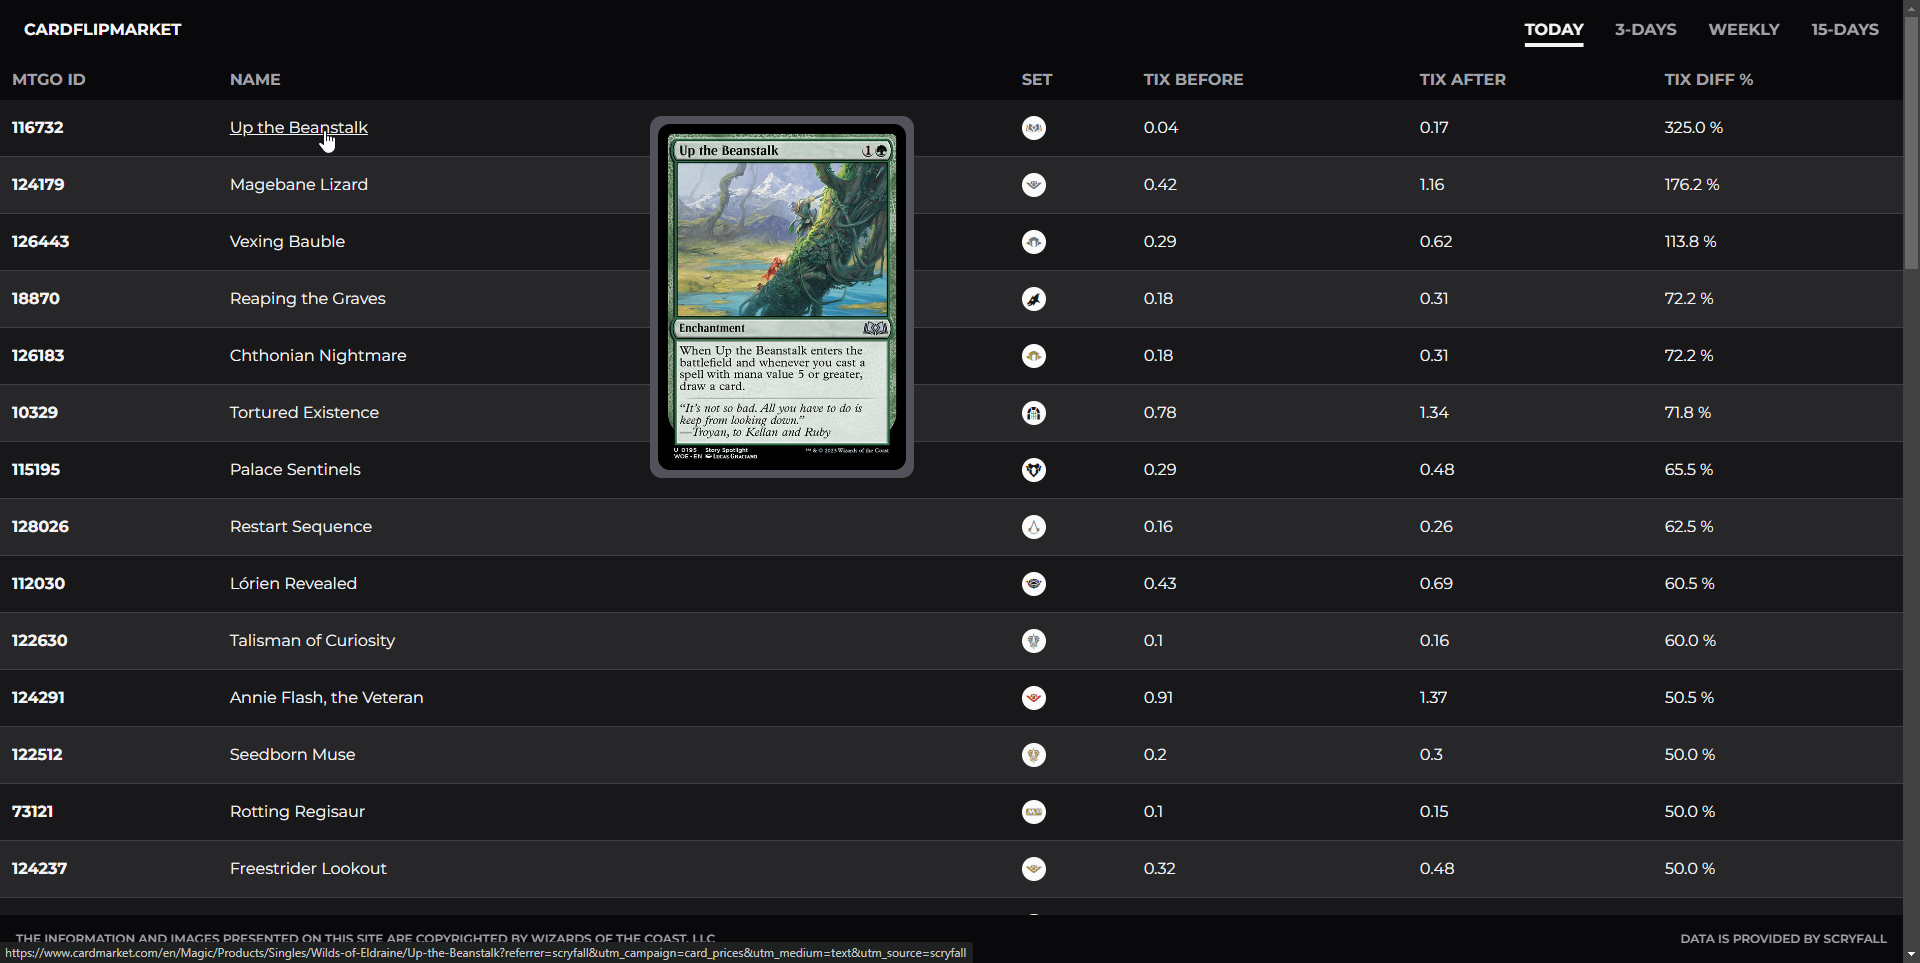
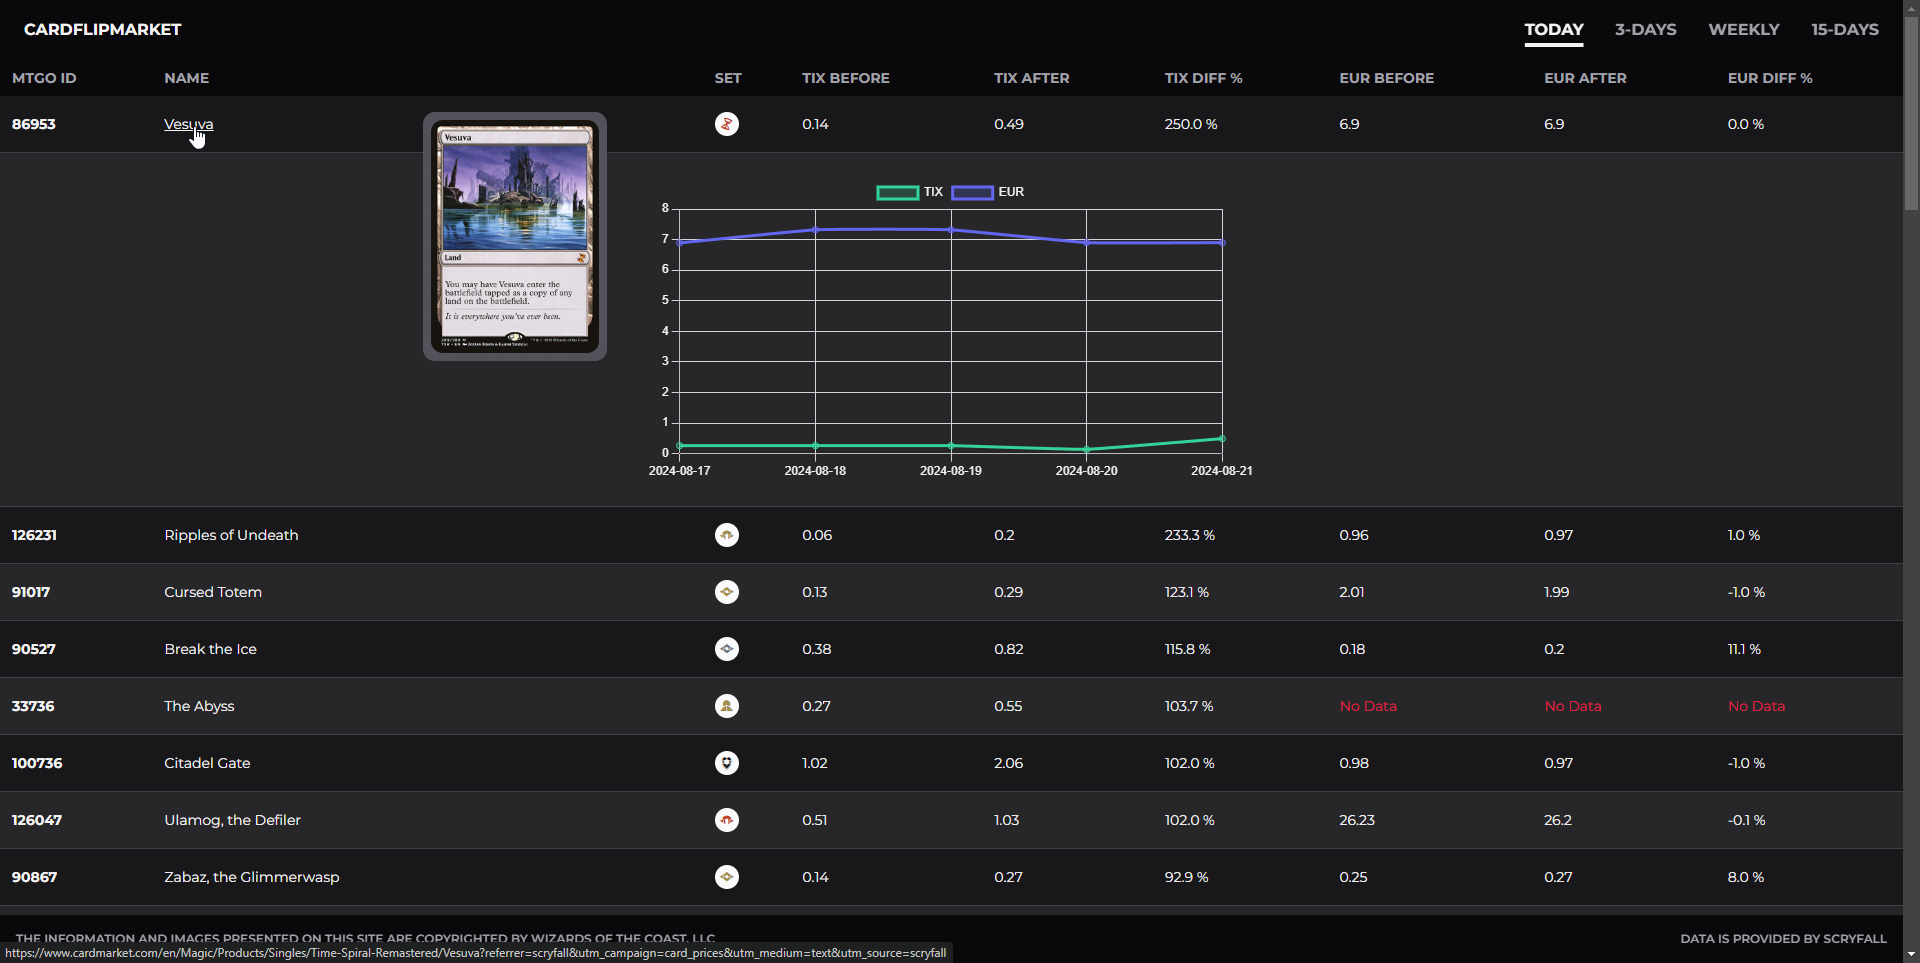
added eur data to table and chart

diff --git a/client/src/components/Table.js b/client/src/components/Table.js
@@ -34,7 +34,7 @@ function Table({ data }) {
             <table className="text-xs lg:text-sm w-full text-left rtl:text-right text-zinc-200 md:mb-80 sm:mb-36">
                 <thead className="text-zinc-400 text-md uppercase cursor-pointer bg-zinc-950">
                     <tr>
-                        <th scope="col" className="lg:block hidden px-3 py-2 hover:text-zinc-100" onClick={() => handleSort('mtgo_id')}>
+                        <th scope="col" className="px-3 py-2 hover:text-zinc-100" onClick={() => handleSort('mtgo_id')}>
                             MTGO ID
                         </th>
                         <th scope="col" className="px-3 py-2 hover:text-zinc-100" onClick={() => handleSort('name')}>
@@ -43,18 +43,31 @@ function Table({ data }) {
                         <th scope="col" className="px-3 py-2 hover:text-zinc-100" onClick={() => handleSort('set')}>
                             Set
                         </th>
-                        <th scope="col" className="px-3 py-2 hover:text-zinc-100" onClick={() => handleSort('before_tix')}>
+                        <th scope="col" className="hidden lg:table-cell px-3 py-2 hover:text-zinc-100" onClick={() => handleSort('before_tix')}>
                             TIX Before
                         </th>
-                        <th scope="col" className="px-3 py-2 hover:text-zinc-100" onClick={() => handleSort('after_tix')}>
+                        <th scope="col" className="hidden lg:table-cell px-3 py-2 hover:text-zinc-100" onClick={() => handleSort('after_tix')}>
                             TIX After
                         </th>
                         <th 
                             scope="col" 
                             className="px-3 py-2 hover:text-zinc-100" 
-                            onClick={() => handleSort('percentage_difference')}
+                            onClick={() => handleSort('percentage_difference_tix')}
                         >
                             TIX Diff %
+                        </th>
+                        <th scope="col" className="hidden lg:table-cell px-3 py-2 hover:text-zinc-100" onClick={() => handleSort('before_eur')}>
+                            EUR Before
+                        </th>
+                        <th scope="col" className="hidden lg:table-cell px-3 py-2 hover:text-zinc-100" onClick={() => handleSort('after_eur')}>
+                            EUR After
+                        </th>
+                        <th 
+                            scope="col" 
+                            className="px-3 py-2 hover:text-zinc-100" 
+                            onClick={() => handleSort('percentage_difference_eur')}
+                        >
+                            EUR Diff %
                         </th>
                     </tr>
                 </thead>
@@ -66,7 +79,7 @@ function Table({ data }) {
                             >
                                 <th 
                                     scope="row" 
-                                    className="lg:block hidden px-3 py-4 whitespace-nowrap"
+                                    className="px-3 py-4 whitespace-nowrap"
                                 >
                                     {card.mtgo_id}
                                 </th>
@@ -90,22 +103,34 @@ function Table({ data }) {
                                 <td className="px-3 py-4">
                                     {<i title={`${card.set.toUpperCase()}`} alt={`${card.set.toUpperCase()}`} className={`w-6 h-6 items-center flex justify-center icon-container bg-zinc-50 rounded-full ss ss-${card.set} ss-${card.rarity}`}></i>}
                                 </td>
-                                <td className="px-3 py-4 cursor-pointer"
+                                <td className="hidden lg:table-cell px-3 py-4 cursor-pointer"
                                 onClick={() => toggleExpandRow(card.mtgo_id)}>
                                     {card.before_tix}
                                 </td>
-                                <td className="px-3 py-4 cursor-pointer"
+                                <td className="hidden lg:table-cell px-3 py-4 cursor-pointer"
                                 onClick={() => toggleExpandRow(card.mtgo_id)}>
                                     {card.after_tix}
                                 </td>
                                 <td className="px-3 py-4 cursor-pointer"
                                 onClick={() => toggleExpandRow(card.mtgo_id)}>
-                                    {card.percentage_difference.toFixed(1)} %
+                                    {card.percentage_difference_tix.toFixed(1)+' %'}
+                                </td>
+                                <td className="hidden lg:table-cell px-3 py-4 cursor-pointer"
+                                onClick={() => toggleExpandRow(card.mtgo_id)}>
+                                    {card.before_eur !== null ? card.before_eur : <p className='text-rose-600'>No Data</p>}
+                                </td>
+                                <td className="hidden lg:table-cell px-3 py-4 cursor-pointer"
+                                onClick={() => toggleExpandRow(card.mtgo_id)}>
+                                    {card.after_eur !== null ? card.after_eur : <p className='text-rose-600'>No Data</p>}
+                                </td>
+                                <td className="px-3 py-4 cursor-pointer"
+                                onClick={() => toggleExpandRow(card.mtgo_id)}>
+                                    {card.percentage_difference_eur !== null ? card.percentage_difference_eur.toFixed(1)+' %' : <p className='text-rose-600'>No Data</p>} 
                                 </td>
                             </tr>
                             {expandedCardId === card.mtgo_id && (
                                 <tr className="odd:bg-zinc-900 even:bg-zinc-800 border-b border-zinc-700" >
-                                    <td colSpan="6" className="px-3 p-4">
+                                    <td colSpan="12" className="px-3 p-4">
                                         <ChartPopover mtgo_id={card.mtgo_id} />
                                     </td>
                                 </tr>

diff --git a/controllers/oracleCardControllers.js b/controllers/oracleCardControllers.js
@@ -19,7 +19,6 @@ export const getScryfallData = async (req, res) => {
             {
                 $project: {
                     mtgo_id: 1,
-                    // get the keys of the prices object, sort them, and get the last two
                     prices_keys: { $objectToArray: "$prices" }
                 }
             },
@@ -28,9 +27,12 @@ export const getScryfallData = async (req, res) => {
                     mtgo_id: 1,
                     prices_keys: {
                         $map: {
-                            input: { $slice: [{ $reverseArray: "$prices_keys" }, dataRange] }, // get last two elements
+                            input: { $slice: [{ $reverseArray: "$prices_keys" }, dataRange] },
                             as: "price",
-                            in: "$$price.v.tix" // extract 'tix' values for the two latest entries
+                            in: {
+                                tix: "$$price.v.tix", // extract 'tix' values
+                                eur: "$$price.v.eur"  // extract 'eur' values
+                            }
                         }
                     }
                 }
@@ -38,8 +40,10 @@ export const getScryfallData = async (req, res) => {
             {
                 $project: {
                     mtgo_id: 1,
-                    after_tix: { $arrayElemAt: ["$prices_keys", 0] }, // the newest price (last key)
-                    before_tix: { $arrayElemAt: ["$prices_keys", dataRange-1] } // the second newest price (second to last key)
+                    after_tix: { $arrayElemAt: ["$prices_keys.tix", 0] },
+                    before_tix: { $arrayElemAt: ["$prices_keys.tix", dataRange-1] },
+                    after_eur: { $arrayElemAt: ["$prices_keys.eur", 0] },
+                    before_eur: { $arrayElemAt: ["$prices_keys.eur", dataRange-1] }
                 }
             },
             {
@@ -47,15 +51,34 @@ export const getScryfallData = async (req, res) => {
                     mtgo_id: 1,
                     after_tix: 1,
                     before_tix: 1,
-                    percentage_difference: {
+                    after_eur: 1,
+                    before_eur: 1,
+                    percentage_difference_tix: {
                         $cond: [
-                            { $ne: ["$before_tix", 0] }, // ensure before_tix is not zero
+                            { $ne: ["$before_tix", 0] }, 
                             {
                                 $multiply: [
                                     {
                                         $divide: [
                                             { $subtract: ["$after_tix", "$before_tix"] },
                                             "$before_tix"
+                                        ]
+                                    },
+                                    100
+                                ]
+                            },
+                            0
+                        ]
+                    },
+                    percentage_difference_eur: {
+                        $cond: [
+                            { $ne: ["$before_eur", 0] }, 
+                            {
+                                $multiply: [
+                                    {
+                                        $divide: [
+                                            { $subtract: ["$after_eur", "$before_eur"] },
+                                            "$before_eur"
                                         ]
                                     },
                                     100
@@ -70,7 +93,7 @@ export const getScryfallData = async (req, res) => {
                 $match: {
                     after_tix: { $gte: priceThreshold },
                     before_tix: { $exists: true },
-                    percentage_difference: { $gte: percentageThreshold } // filter out results with less than a threshold
+                    percentage_difference_tix: { $gte: percentageThreshold }
                 }
             },
             {
@@ -92,7 +115,10 @@ export const getScryfallData = async (req, res) => {
                     image: "$oracle_card_data.image_uris.normal",
                     after_tix: 1,
                     before_tix: 1,
-                    percentage_difference: 1
+                    after_eur: 1,
+                    before_eur: 1,
+                    percentage_difference_tix: 1,
+                    percentage_difference_eur: 1
                 }
             }
         ]);
@@ -102,6 +128,7 @@ export const getScryfallData = async (req, res) => {
         res.status(500).json({ message: err.message });
     }
 };
+
 
 export const getPriceHistoryData = async (req, res) => {
     const { mtgo_id } = req.params; // extract mtgo_id from request parameters
@@ -114,20 +141,22 @@ export const getPriceHistoryData = async (req, res) => {
             return res.status(404).json({ message: 'Card not found' });
         }
 
-        // create an array to hold the tix prices along with their dates
-        const tixPriceHistory = [];
+        // create an array to hold the tix and eur prices along with their dates
+        const priceHistory = [];
 
-        // loop through the prices map and extract tix prices with their corresponding dates
+        // loop through the prices map and extract tix and eur prices with their corresponding dates
         for (const [date, value] of cardPrices.prices) {
-            tixPriceHistory.push({
+            priceHistory.push({
                 date: value.date,
-                tix: value.tix 
+                tix: value.tix,
+                eur: value.eur
             });
         }
 
-        // respond with an object containing mtgo_id and the tixPriceHistory array
-        res.json({ mtgo_id, tixPriceHistory });
+        // respond with an object containing mtgo_id and the priceHistory array
+        res.json({ mtgo_id, priceHistory });
     } catch (err) {
         res.status(500).json({ message: err.message });
     }
 };
+

diff --git a/client/src/components/ChartPopover.js b/client/src/components/ChartPopover.js
@@ -24,11 +24,25 @@ function ChartPopover({ mtgo_id }) {
 
     
     const chartData = priceHistory ? {
-        labels: priceHistory.tixPriceHistory.map(entry => new Date (entry.date).toISOString().slice(0, 10)),
-        datasets: [{
-            data: priceHistory.tixPriceHistory.map(entry => entry.tix),
-            borderColor: 'rgb(52 211 153)'
-        }]
+        labels: priceHistory.priceHistory.map(entry => new Date(entry.date).toISOString().slice(0, 10)),
+        datasets: [
+            {
+                label: 'TIX',
+                data: priceHistory.priceHistory.map(entry => entry.tix),
+                borderColor: 'rgb(52, 211, 153)',
+                backgroundColor: 'rgba(52, 211, 153, 0.2)',
+                fill: true,
+                tension: 0.1,
+            },
+            {
+                label: 'EUR',
+                data: priceHistory.priceHistory.map(entry => entry.eur),
+                borderColor: 'rgb(99, 102, 241)',
+                backgroundColor: 'rgba(99, 102, 241, 0.2)',
+                fill: true,
+                tension: 0.1,
+            }
+        ]
     } : null;
 
     
@@ -56,7 +70,10 @@ function ChartPopover({ mtgo_id }) {
         },
         plugins: {
             legend: {
-              display: false
+              display: true,
+              labels: {
+                color: 'rgb(244, 244, 245)',
+            }
             }
           }
     };

diff --git a/README.md b/README.md
@@ -112,10 +112,8 @@ Then, start the server
 
 ## Screenshots
 
-**Main Page**
+**Home Page**
 ![Screenshot 0](screenshots/ss0.png)
 
-**Price History Chart**
-![Screenshot 1](screenshots/ss1.png)
 
 
